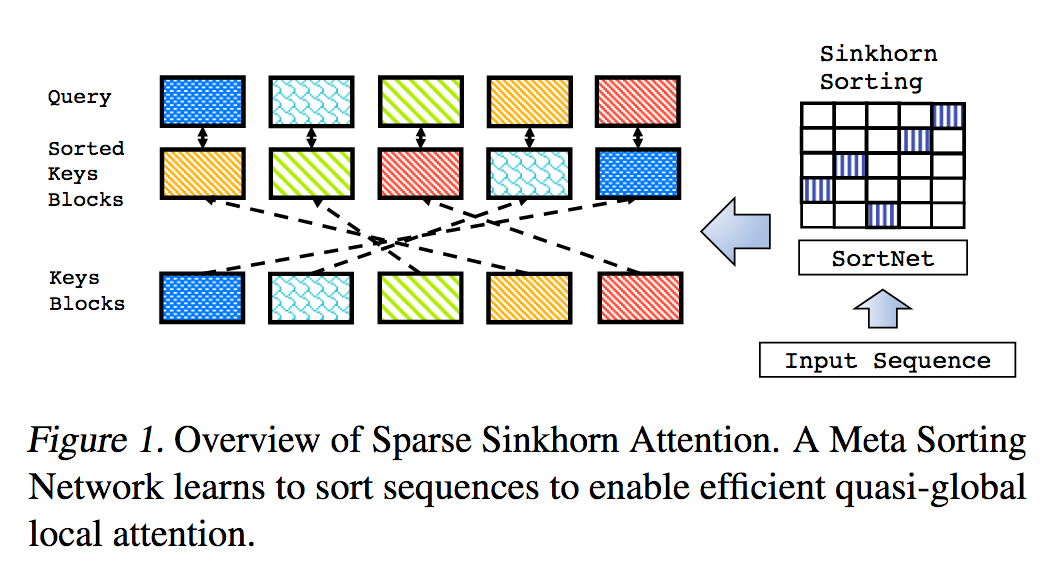
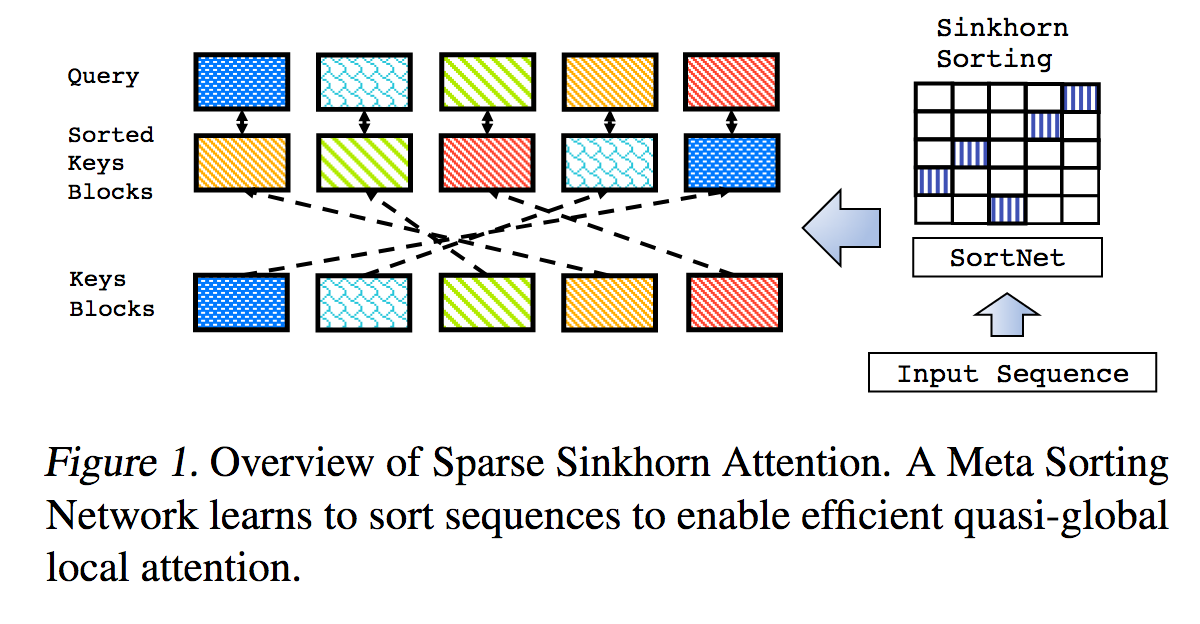
update readme with sortcut diagram

Changed region(s): [[0.0311, 0.0623, 0.6538, 0.5606], [0.0311, 0.7163, 0.9962, 0.9654], [0.6538, 0.0311, 0.9651, 0.654]]

diff --git a/README.md b/README.md
@@ -4,6 +4,8 @@
 
 <img src="./sinkhorn.png" width="500">
 
+<img src="./sortcut.png" width="500">
+
 ---
 
 This is a reproduction of the work outlined in <a href="https://arxiv.org/abs/2002.11296">Sparse Sinkhorn Attention</a>, with additional enhancements.
